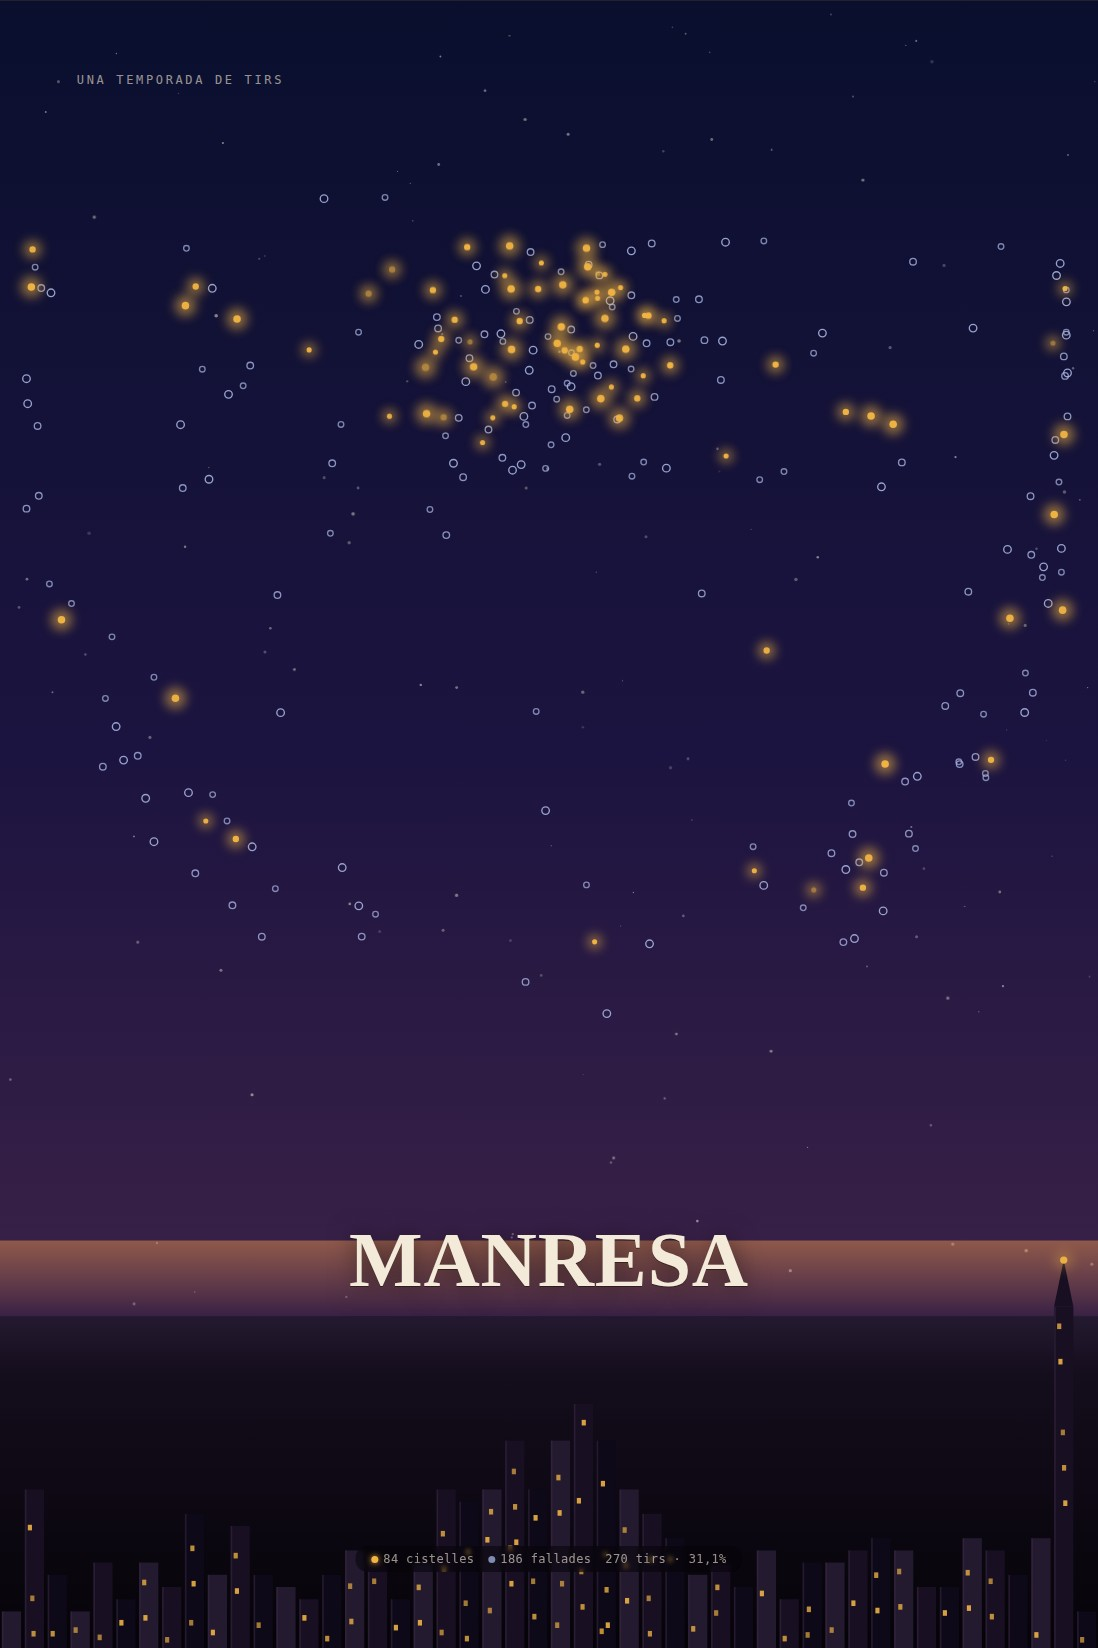
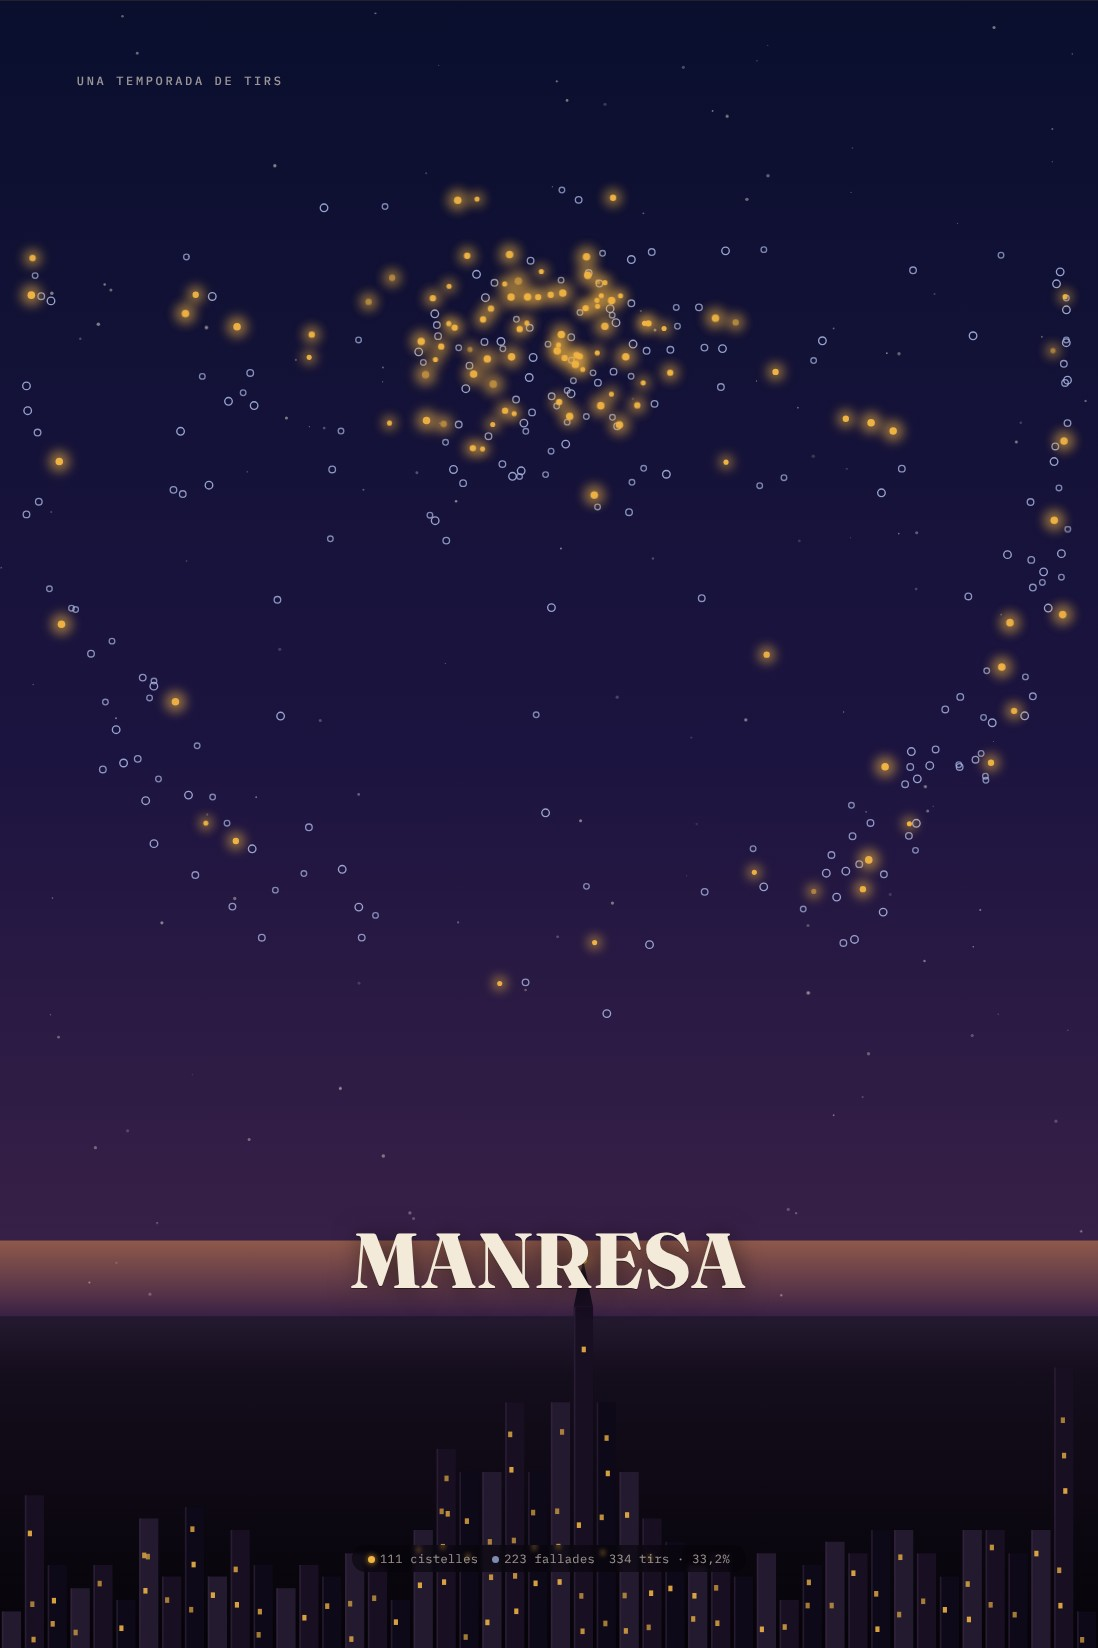
Actualitza el cel de tirs amb la sisena jornada (334 tirs, 111 cistelles)
Claude-Session: https://claude.ai/code/session_01TNDe9wqQxXzHpRRrxN6T8m

diff --git a/grafics.html b/grafics.html
@@ -90,7 +90,7 @@
      ningu. Les que hi hagi a la pestanya "Imatges" del full s'afegeixen
      despres, quan arribin. */
   const IMATGES_LOCALS = [
-    { titol: 'Un cel de tirs', url: 'imatges/cel-de-tirs.jpg?v=5' },
+    { titol: 'Un cel de tirs', url: 'imatges/cel-de-tirs.jpg?v=6' },
     { titol: 'La flor del feedback', url: 'imatges/flor-feedback.jpg?v=1' }
   ];
 
